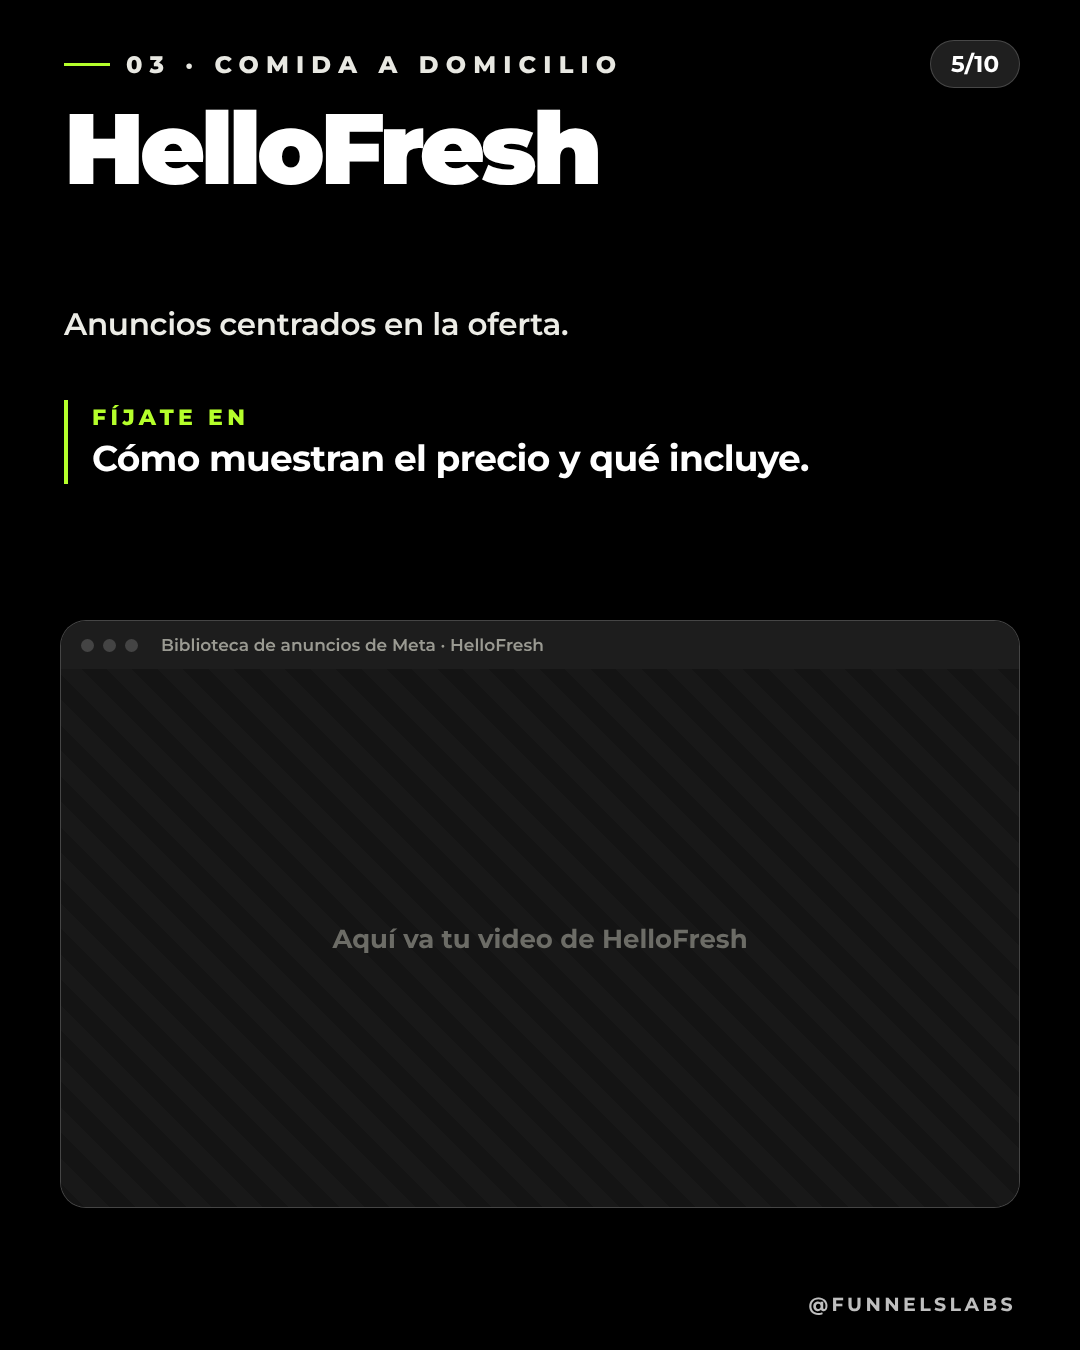
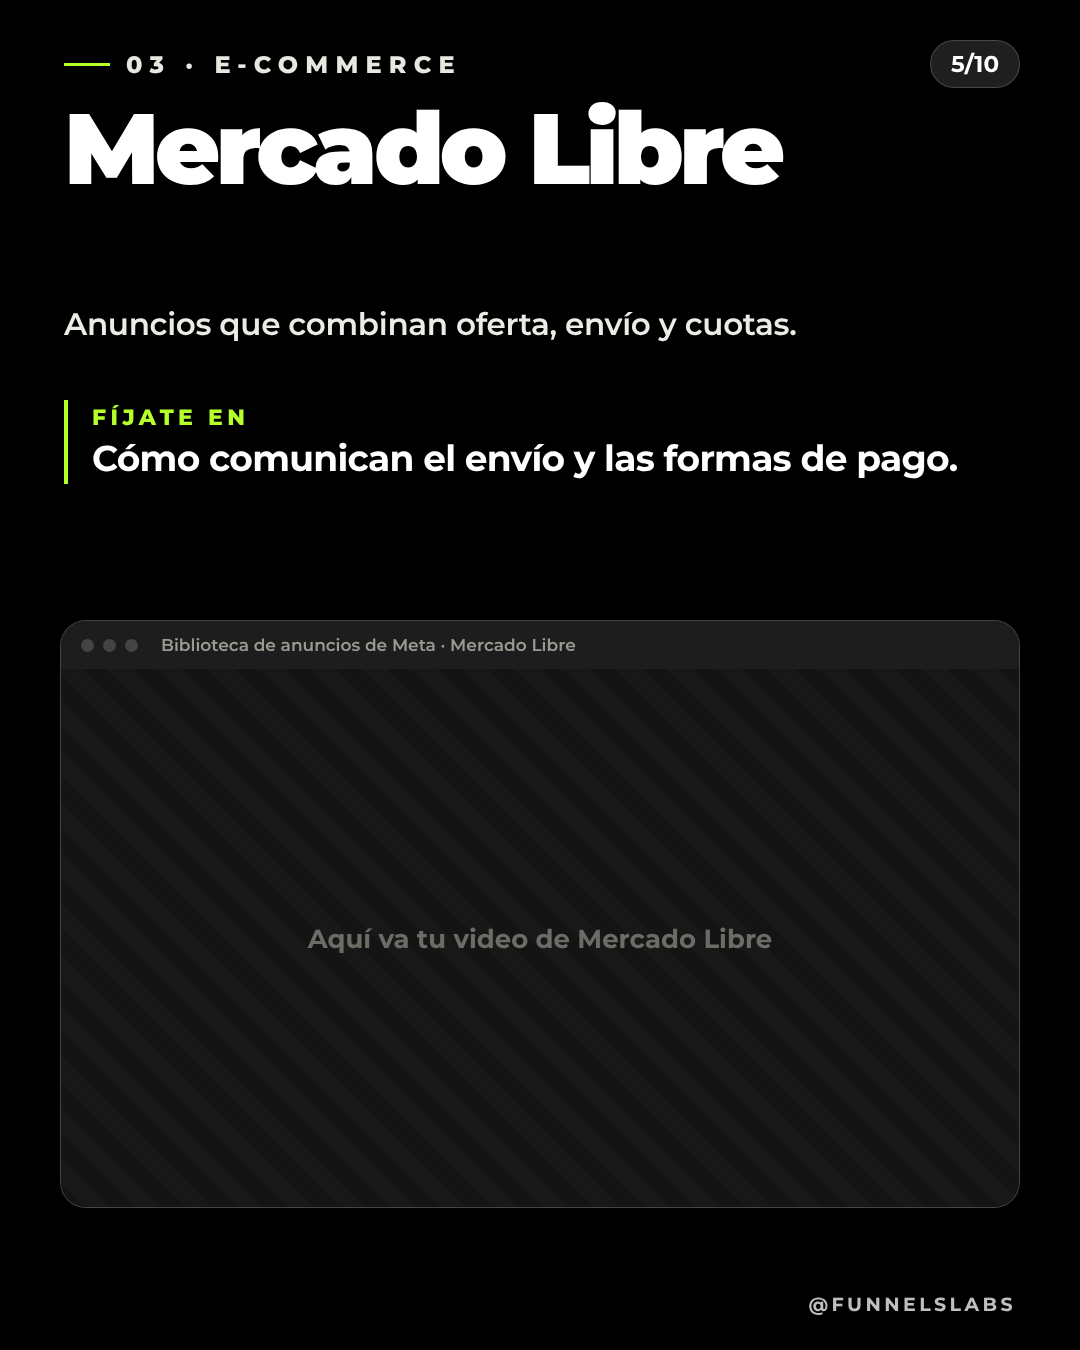
espiar-anuncios: marcas top (Shein, Temu, Mercado Libre, Nubank, Rappi, Nike)
Claude-Session: https://claude.ai/code/session_018d4LXHkXweDJXxfN5x99dL

diff --git a/carruseles/espiar-anuncios/carrusel.html b/carruseles/espiar-anuncios/carrusel.html
@@ -52,19 +52,19 @@ body{background:#333;font-family:"Montserrat",Arial,sans-serif;display:flex;flex
 <div class="row"><span class="ic"><svg viewBox="0 0 24 24" fill="none" stroke="currentColor" stroke-width="1.7" stroke-linecap="round" stroke-linejoin="round"><circle cx="12" cy="12" r="9"/><path d="M12 7v10M9.5 9.5h4a1.8 1.8 0 0 1 0 3.5h-3a1.8 1.8 0 0 0 0 3.5h4"/></svg></span><div><b>Es pública y gratis</b><span>Cualquier persona puede entrar, sin cuenta de anunciante.</span></div></div>
 <div class="row"><span class="ic"><svg viewBox="0 0 24 24" fill="none" stroke="currentColor" stroke-width="1.7" stroke-linecap="round" stroke-linejoin="round"><path d="M2.5 12S6 5.5 12 5.5 21.5 12 21.5 12 18 18.5 12 18.5 2.5 12 2.5 12z"/><circle cx="12" cy="12" r="3"/></svg></span><div><b>Muestra anuncios activos</b><span>Los mensajes, formatos y ofertas que una marca tiene hoy.</span></div></div>
 <div class="row last"><span class="ic"><svg viewBox="0 0 24 24" fill="none" stroke="currentColor" stroke-width="1.7" stroke-linecap="round" stroke-linejoin="round"><path d="M9 6h11M9 12h11M9 18h11"/><circle cx="4.5" cy="6" r="1"/><circle cx="4.5" cy="12" r="1"/><circle cx="4.5" cy="18" r="1"/></svg></span><div><b>Te ahorra horas</b><span>Ves ideas reales antes de gastar en probar las tuyas.</span></div></div>
-</div><div class="ph" style="width:545px;top:720px;left:267px"><img src="img/chat-c.png"></div><div class="foot"><span>@funnelslabs</span></div></section><section class="slide"><div class="n">3/10</div><div class="kick"><i></i>01 · Ropa deportiva</div><div class="h" style="font-size:118px">Gymshark</div><div class="sub">Anuncios con creadores, producto y ofertas.</div>
-<div class="look"><b>Fíjate en</b><span>Quién aparece en los primeros 3 segundos.</span></div>
-<div class="win" id="slot3"><div class="bar"><i></i><i></i><i></i><em>Biblioteca de anuncios de Meta · Gymshark</em></div><div class="vid"><span>Aquí va tu video de Gymshark</span></div></div><div class="foot"><span>@funnelslabs</span></div></section><section class="slide"><div class="n">4/10</div><div class="kick"><i></i>02 · Apps</div><div class="h" style="font-size:118px">Duolingo</div><div class="sub">Anuncios que parecen contenido, no publicidad.</div>
-<div class="look"><b>Fíjate en</b><span>El humor y cómo cuentan una idea en pocos segundos.</span></div>
-<div class="win" id="slot4"><div class="bar"><i></i><i></i><i></i><em>Biblioteca de anuncios de Meta · Duolingo</em></div><div class="vid"><span>Aquí va tu video de Duolingo</span></div></div><div class="foot"><span>@funnelslabs</span></div></section><section class="slide"><div class="n">5/10</div><div class="kick"><i></i>03 · Comida a domicilio</div><div class="h" style="font-size:100px">HelloFresh</div><div class="sub">Anuncios centrados en la oferta.</div>
-<div class="look"><b>Fíjate en</b><span>Cómo muestran el precio y qué incluye.</span></div>
-<div class="win" id="slot5"><div class="bar"><i></i><i></i><i></i><em>Biblioteca de anuncios de Meta · HelloFresh</em></div><div class="vid"><span>Aquí va tu video de HelloFresh</span></div></div><div class="foot"><span>@funnelslabs</span></div></section><section class="slide"><div class="n">6/10</div><div class="kick"><i></i>04 · Bebidas</div><div class="h" style="font-size:118px">Olipop</div><div class="sub">Anuncios que explican un beneficio con palabras simples.</div>
-<div class="look"><b>Fíjate en</b><span>Cómo explican el producto sin tecnicismos.</span></div>
-<div class="win" id="slot6"><div class="bar"><i></i><i></i><i></i><em>Biblioteca de anuncios de Meta · Olipop</em></div><div class="vid"><span>Aquí va tu video de Olipop</span></div></div><div class="foot"><span>@funnelslabs</span></div></section><section class="slide"><div class="n">7/10</div><div class="kick"><i></i>05 · Agua en lata</div><div class="h" style="font-size:100px">Liquid Death</div><div class="sub">Anuncios con una personalidad muy marcada.</div>
-<div class="look"><b>Fíjate en</b><span>Los ganchos inesperados y el tono de la marca.</span></div>
-<div class="win" id="slot7"><div class="bar"><i></i><i></i><i></i><em>Biblioteca de anuncios de Meta · Liquid Death</em></div><div class="vid"><span>Aquí va tu video de Liquid Death</span></div></div><div class="foot"><span>@funnelslabs</span></div></section><section class="slide"><div class="n">8/10</div><div class="kick"><i></i>06 · Suplementos</div><div class="h" style="font-size:118px">Ritual</div><div class="sub">Anuncios que construyen confianza.</div>
-<div class="look"><b>Fíjate en</b><span>Cómo muestran los ingredientes y de dónde vienen.</span></div>
-<div class="win" id="slot8"><div class="bar"><i></i><i></i><i></i><em>Biblioteca de anuncios de Meta · Ritual</em></div><div class="vid"><span>Aquí va tu video de Ritual</span></div></div><div class="foot"><span>@funnelslabs</span></div></section><section class="slide"><div class="n">9/10</div><div class="kick"><i></i>Cómo leerlos</div><div class="h" style="font-size:84px">Cómo saber si un<br><span class="l">anuncio funciona.</span></div>
+</div><div class="ph" style="width:545px;top:720px;left:267px"><img src="img/chat-c.png"></div><div class="foot"><span>@funnelslabs</span></div></section><section class="slide"><div class="n">3/10</div><div class="kick"><i></i>01 · Moda</div><div class="h" style="font-size:118px">Shein</div><div class="sub">Anuncios con mucho volumen y variedad de prendas.</div>
+<div class="look"><b>Fíjate en</b><span>Cuántas versiones distintas hacen del mismo producto.</span></div>
+<div class="win" id="slot3"><div class="bar"><i></i><i></i><i></i><em>Biblioteca de anuncios de Meta · Shein</em></div><div class="vid"><span>Aquí va tu video de Shein</span></div></div><div class="foot"><span>@funnelslabs</span></div></section><section class="slide"><div class="n">4/10</div><div class="kick"><i></i>02 · Tienda online</div><div class="h" style="font-size:118px">Temu</div><div class="sub">Anuncios basados en ofertas y descuentos.</div>
+<div class="look"><b>Fíjate en</b><span>Cómo destacan el precio y la urgencia.</span></div>
+<div class="win" id="slot4"><div class="bar"><i></i><i></i><i></i><em>Biblioteca de anuncios de Meta · Temu</em></div><div class="vid"><span>Aquí va tu video de Temu</span></div></div><div class="foot"><span>@funnelslabs</span></div></section><section class="slide"><div class="n">5/10</div><div class="kick"><i></i>03 · E-commerce</div><div class="h" style="font-size:100px">Mercado Libre</div><div class="sub">Anuncios que combinan oferta, envío y cuotas.</div>
+<div class="look"><b>Fíjate en</b><span>Cómo comunican el envío y las formas de pago.</span></div>
+<div class="win" id="slot5"><div class="bar"><i></i><i></i><i></i><em>Biblioteca de anuncios de Meta · Mercado Libre</em></div><div class="vid"><span>Aquí va tu video de Mercado Libre</span></div></div><div class="foot"><span>@funnelslabs</span></div></section><section class="slide"><div class="n">6/10</div><div class="kick"><i></i>04 · Fintech</div><div class="h" style="font-size:118px">Nubank</div><div class="sub">Anuncios que explican un servicio financiero con claridad.</div>
+<div class="look"><b>Fíjate en</b><span>Cómo simplifican algo que parece complicado.</span></div>
+<div class="win" id="slot6"><div class="bar"><i></i><i></i><i></i><em>Biblioteca de anuncios de Meta · Nubank</em></div><div class="vid"><span>Aquí va tu video de Nubank</span></div></div><div class="foot"><span>@funnelslabs</span></div></section><section class="slide"><div class="n">7/10</div><div class="kick"><i></i>05 · Delivery</div><div class="h" style="font-size:118px">Rappi</div><div class="sub">Anuncios con promociones y mucha variedad.</div>
+<div class="look"><b>Fíjate en</b><span>Cómo muestran la promoción en el primer segundo.</span></div>
+<div class="win" id="slot7"><div class="bar"><i></i><i></i><i></i><em>Biblioteca de anuncios de Meta · Rappi</em></div><div class="vid"><span>Aquí va tu video de Rappi</span></div></div><div class="foot"><span>@funnelslabs</span></div></section><section class="slide"><div class="n">8/10</div><div class="kick"><i></i>06 · Ropa deportiva</div><div class="h" style="font-size:118px">Nike</div><div class="sub">Anuncios que venden una idea antes que el producto.</div>
+<div class="look"><b>Fíjate en</b><span>Cómo cuentan una historia y no solo muestran el producto.</span></div>
+<div class="win" id="slot8"><div class="bar"><i></i><i></i><i></i><em>Biblioteca de anuncios de Meta · Nike</em></div><div class="vid"><span>Aquí va tu video de Nike</span></div></div><div class="foot"><span>@funnelslabs</span></div></section><section class="slide"><div class="n">9/10</div><div class="kick"><i></i>Cómo leerlos</div><div class="h" style="font-size:84px">Cómo saber si un<br><span class="l">anuncio funciona.</span></div>
 <div class="panel" style="top:300px">
 <div class="row"><span class="ic"><svg viewBox="0 0 24 24" fill="none" stroke="currentColor" stroke-width="1.7" stroke-linecap="round" stroke-linejoin="round"><rect x="3.5" y="5" width="17" height="15" rx="2.5"/><path d="M3.5 10h17M8 3v4M16 3v4"/></svg></span><div><b>En circulación desde</b><span>Si lleva meses activo, es una pista de que sigue dando resultado.</span></div></div>
 <div class="row"><span class="ic"><svg viewBox="0 0 24 24" fill="none" stroke="currentColor" stroke-width="1.7" stroke-linecap="round" stroke-linejoin="round"><path d="M12 4l9 5-9 5-9-5z"/><path d="M3 14l9 5 9-5"/></svg></span><div><b>Varias versiones</b><span>La marca está probando cambios sobre una misma idea.</span></div></div>

diff --git a/carruseles/espiar-anuncios/generar.py b/carruseles/espiar-anuncios/generar.py
@@ -31,12 +31,12 @@ S.append(f'''<section class="slide">{head(2,'Biblioteca de anuncios','Tu compete
 {row('eye','Muestra anuncios activos','Los mensajes, formatos y ofertas que una marca tiene hoy.')}
 {row('list','Te ahorra horas','Ves ideas reales antes de gastar en probar las tuyas.',True)}
 </div>{photo('chat',545,720)}{foot}</section>''')
-B=[('Ropa deportiva','Gymshark','Anuncios con creadores, producto y ofertas.','Quién aparece en los primeros 3 segundos.'),
-   ('Apps','Duolingo','Anuncios que parecen contenido, no publicidad.','El humor y cómo cuentan una idea en pocos segundos.'),
-   ('Comida a domicilio','HelloFresh','Anuncios centrados en la oferta.','Cómo muestran el precio y qué incluye.'),
-   ('Bebidas','Olipop','Anuncios que explican un beneficio con palabras simples.','Cómo explican el producto sin tecnicismos.'),
-   ('Agua en lata','Liquid Death','Anuncios con una personalidad muy marcada.','Los ganchos inesperados y el tono de la marca.'),
-   ('Suplementos','Ritual','Anuncios que construyen confianza.','Cómo muestran los ingredientes y de dónde vienen.')]
+B=[('Moda','Shein','Anuncios con mucho volumen y variedad de prendas.','Cuántas versiones distintas hacen del mismo producto.'),
+   ('Tienda online','Temu','Anuncios basados en ofertas y descuentos.','Cómo destacan el precio y la urgencia.'),
+   ('E-commerce','Mercado Libre','Anuncios que combinan oferta, envío y cuotas.','Cómo comunican el envío y las formas de pago.'),
+   ('Fintech','Nubank','Anuncios que explican un servicio financiero con claridad.','Cómo simplifican algo que parece complicado.'),
+   ('Delivery','Rappi','Anuncios con promociones y mucha variedad.','Cómo muestran la promoción en el primer segundo.'),
+   ('Ropa deportiva','Nike','Anuncios que venden una idea antes que el producto.','Cómo cuentan una historia y no solo muestran el producto.')]
 for k,(c,n,d,l) in enumerate(B): S.append(brand(3+k,c,n,d,l,118 if len(n)<10 else 100))
 S.append(f'''<section class="slide">{head(9,'Cómo leerlos','Cómo saber si un','anuncio funciona.',None,84)}
 <div class="panel" style="top:300px">

diff --git a/carruseles/espiar-anuncios/componer-videos.py b/carruseles/espiar-anuncios/componer-videos.py
@@ -2,7 +2,7 @@
 Uso: guarda los videos en videos/ con estos nombres (mp4 o mov) y ejecuta: python3 componer-videos.py"""
 import os, glob, subprocess
 os.chdir(os.path.dirname(os.path.abspath(__file__)))
-SLIDES={3:'gymshark',4:'duolingo',5:'hellofresh',6:'olipop',7:'liquid-death',8:'ritual'}
+SLIDES={3:'shein',4:'temu',5:'mercado-libre',6:'nubank',7:'rappi',8:'nike'}
 X,Y,W,H=60,668,960,540          # hueco del video dentro del marco
 for n,slug in SLIDES.items():
     v=[f for f in glob.glob(f'videos/{slug}.*') if f.lower().endswith(('.mp4','.mov','.m4v','.webm'))]
